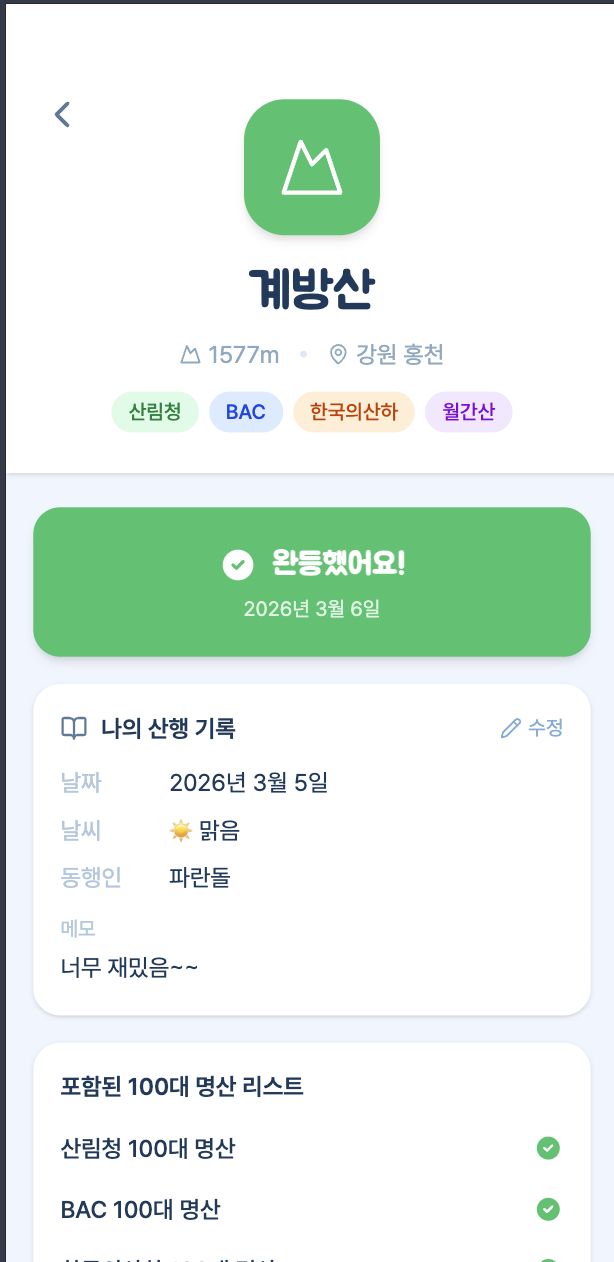
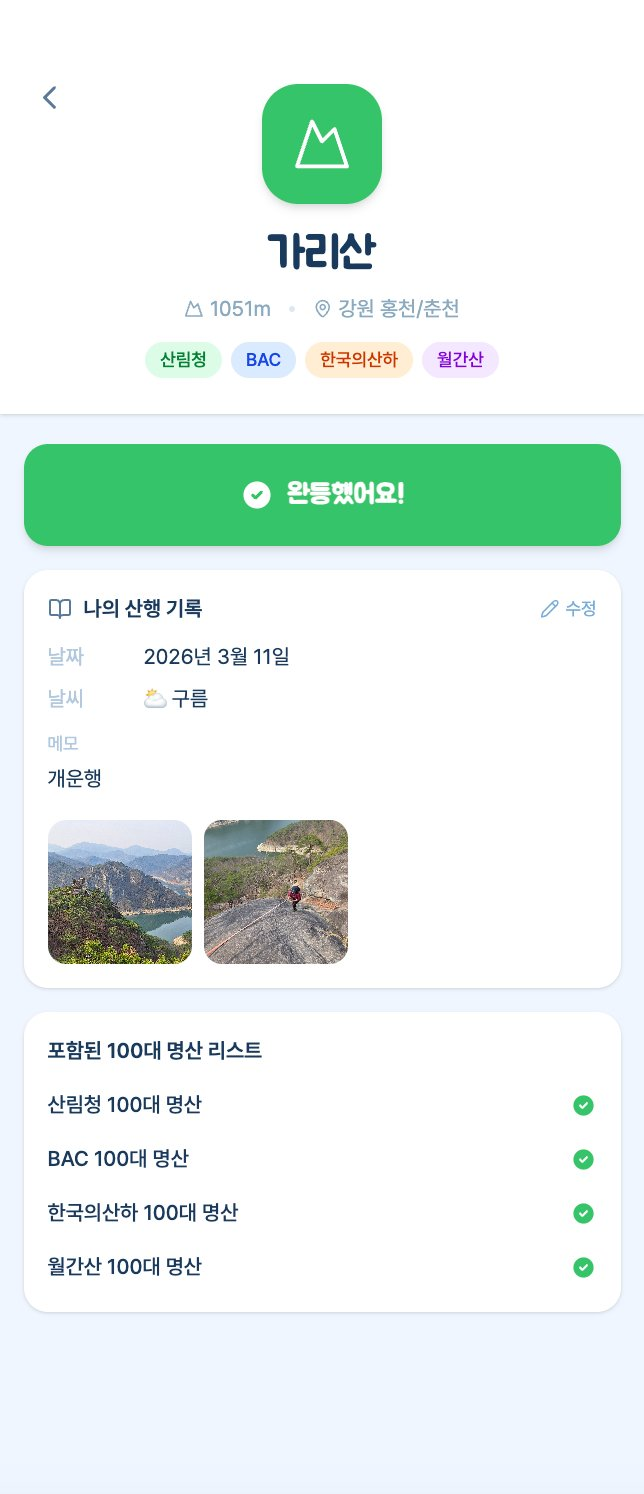
docs:readme 수정

diff --git a/README.md b/README.md
@@ -29,6 +29,16 @@
     <td><img src="docs/screenshots/05_detail.png" width="200"/></td>
     <td><img src="docs/screenshots/06_diary.png" width="200"/></td>
   </tr>
+  <tr>
+    <td align="center"><b>지도</b></td>
+    <td></td>
+    <td></td>
+  </tr>
+  <tr>
+    <td><img src="docs/screenshots/07_map.png" width="200"/></td>
+    <td></td>
+    <td></td>
+  </tr>
 </table>
 
 ---
@@ -48,8 +58,9 @@
 | 리스트 | 기관별 필터, 검색, 가나다순/미완등 먼저 정렬 |
 | 대시보드 | 전체 및 기관별 진행률, 최근 완등 목록 |
 | 산행 기록 | 날짜·날씨·동행인·메모·사진(최대 3장) 기록 |
-| 달력 | 월별 산행 기록 캘린더 뷰 |
-| 지도 | 카카오맵 기반 149개 산 위치 마커 |
+| 달력 | 월별 산행 기록 캘린더 뷰, 날짜 클릭 시 해당 기록 필터링 |
+| 지도 | Mapbox 기반 149개 산 위치 마커 (완등 깃발/미완등 점), GPS 내 위치 이동 |
+| 사진 뷰어 | 사진 클릭 시 전체 화면 확대, 좌우 넘기기 지원 |
 
 ---
 
@@ -59,7 +70,7 @@
 - **Styling** : Tailwind CSS v4
 - **State** : Zustand
 - **Backend** : Supabase (Auth + PostgreSQL + Storage)
-- **Map** : Kakao Maps JavaScript API
+- **Map** : Mapbox GL JS v3
 - **Deploy** : Vercel
 
 ---
@@ -85,7 +96,7 @@ npm install
 # 환경변수 설정 (.env 파일 생성)
 VITE_SUPABASE_URL=your_supabase_url
 VITE_SUPABASE_ANON_KEY=your_supabase_anon_key
-VITE_KAKAO_MAP_KEY=your_kakao_javascript_key
+VITE_MAPBOX_TOKEN=your_mapbox_public_token
 
 # 개발 서버 실행
 npm run dev
